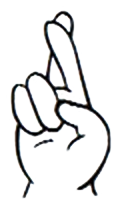
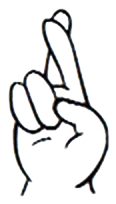
Icone de recomecar, CONTINUAR/RECOMECAR lado a lado no PC, sinais sem borda
- RECOMECAR usa o icone de restart (imagem anexada), no lugar da seta.
- No PC (paisagem) CONTINUAR e RECOMECAR ficam lado a lado e o layout persiste
  (reaplicado no fim de AplicarOrientacao via jogoPausado).
- Titulo/subtitulo do menu separados e logo menor no topo (sem sobreposicao).
- Retrato: botoes menores para caber com dica/creditos sem sobrepor.
- Sinais re-fatiados com inset maior (sem a linha preta da borda).
- Estudo: letra levantada para nao cobrir "sinal parado".

Changed region(s): [[0.0517, 0.1765, 0.7241, 0.9706], [0.3362, 0.0294, 0.9569, 0.9706], [0.5948, 0.4706, 0.6466, 0.5294]]

diff --git a/Assets/MenuPrincipal.cs b/Assets/MenuPrincipal.cs
@@ -53,6 +53,7 @@ public class MenuPrincipal : MonoBehaviour
     string senhaDigitada = "";
 
     bool  menuAberto;
+    bool  jogoPausado;
     float timerFimDeJogo;
     float timerContagem;
 
@@ -257,11 +258,11 @@ public class MenuPrincipal : MonoBehaviour
         rtJogar = jogar.GetComponent<RectTransform>();
         AdicionarIcone(jogar.transform, UIFabrica.Seta(), false, 50f); // ▶ play (JOGAR)
         var iconeVoltar = UIFabrica.CriarImagem(jogar.transform, "IconeVoltar", Color.white,
-            Vector2.zero, new Vector2(50, 50), UIFabrica.Seta());
-        iconeVoltar.raycastTarget = false;
+            Vector2.zero, new Vector2(54, 54), Resources.Load<Sprite>("ui/recomecar"));
+        iconeVoltar.raycastTarget = false; iconeVoltar.preserveAspect = true;
         var ivr = iconeVoltar.rectTransform;
-        ivr.anchorMin = ivr.anchorMax = new Vector2(0f, 0.5f); ivr.pivot = new Vector2(0.5f, 0.5f);
-        ivr.anchoredPosition = new Vector2(55f, 0f); ivr.localScale = new Vector3(-1f, 1f, 1f); // seta invertida = voltar
+        ivr.anchorMin = ivr.anchorMax = new Vector2(0f, 0.5f); ivr.pivot = new Vector2(0f, 0.5f);
+        ivr.anchoredPosition = new Vector2(28f, 0f);
         iconeVoltar.gameObject.SetActive(false);
 
         // Acoes secundarias: lado a lado, tamanho intermediario
@@ -397,16 +398,16 @@ public class MenuPrincipal : MonoBehaviour
         if (pausado)
         {
             // Paisagem: lado a lado. Retrato: empilhado (coluna), largura cheia.
-            if (rtContinuar != null) { rtContinuar.anchoredPosition = h ? new Vector2(-330, 110) : new Vector2(0, 175);
-                                       rtContinuar.sizeDelta = h ? new Vector2(610, 130) : new Vector2(820, 150); }
-            if (rtJogar != null)     { rtJogar.anchoredPosition = h ? new Vector2(330, 110) : new Vector2(0, 5);
-                                       rtJogar.sizeDelta = h ? new Vector2(610, 130) : new Vector2(820, 160); }
+            if (rtContinuar != null) { rtContinuar.anchoredPosition = h ? new Vector2(-330, 110) : new Vector2(0, 200);
+                                       rtContinuar.sizeDelta = h ? new Vector2(610, 130) : new Vector2(820, 120); }
+            if (rtJogar != null)     { rtJogar.anchoredPosition = h ? new Vector2(330, 110) : new Vector2(0, 55);
+                                       rtJogar.sizeDelta = h ? new Vector2(610, 130) : new Vector2(820, 130); }
             FlipIconeJogar(true);
         }
         else
         {
-            if (rtJogar != null) { rtJogar.anchoredPosition = h ? new Vector2(0, 110) : new Vector2(0, 5);
-                                   rtJogar.sizeDelta = h ? new Vector2(540, 140) : new Vector2(820, 160); }
+            if (rtJogar != null) { rtJogar.anchoredPosition = h ? new Vector2(0, 110) : new Vector2(0, 55);
+                                   rtJogar.sizeDelta = h ? new Vector2(540, 140) : new Vector2(820, 130); }
             FlipIconeJogar(false);
         }
     }
@@ -440,8 +441,8 @@ public class MenuPrincipal : MonoBehaviour
     {
         if (logoUniverso == null) return;
         var rt = (RectTransform)logoUniverso.transform;
-        rt.sizeDelta        = estudo ? new Vector2(86, 74)  : new Vector2(150, 129);
-        rt.anchoredPosition = estudo ? new Vector2(0, -4)   : new Vector2(0, -16);
+        rt.sizeDelta        = estudo ? new Vector2(86, 74)  : new Vector2(100, 86);
+        rt.anchoredPosition = estudo ? new Vector2(0, -4)   : new Vector2(0, -8);
     }
 
     void ConstruirHud()
@@ -776,23 +777,23 @@ public class MenuPrincipal : MonoBehaviour
                                                         : new Vector2(1000, 150);
         if (rtTitulo2  != null) rtTitulo2.gameObject.SetActive(!h);
 
-        Pos(rtTitulo1,   new Vector2(0, 585), new Vector2(0, 330));
-        Pos(rtSubtitulo, new Vector2(0, 345), new Vector2(0, 300));
+        Pos(rtTitulo1,   new Vector2(0, 585), new Vector2(0, 385));
+        Pos(rtSubtitulo, new Vector2(0, 345), new Vector2(0, 250));
         Pos(rtRecorde,   new Vector2(0, 295), new Vector2(0, 268));
 
         // Hierarquia piramidal: JOGAR (primaria) maior no topo; APRENDA e
         // TREINAMENTO (secundarias) no meio, tamanho intermediario - em coluna
         // no retrato, lado a lado na paisagem; SAIR (negativa) menor na base,
         // para reduzir toque acidental. Primeiro par = retrato, segundo = paisagem.
-        PosTam(rtContinuar, new Vector2(0,  175), new Vector2(820, 150),
+        PosTam(rtContinuar, new Vector2(0,  200), new Vector2(820, 120),
                             new Vector2(0,  235), new Vector2(500,  90));
-        PosTam(rtJogar,     new Vector2(0,    5), new Vector2(820, 160),
+        PosTam(rtJogar,     new Vector2(0,   55), new Vector2(820, 130),
                             new Vector2(0,  110), new Vector2(540, 140));
-        PosTam(rtAprender,  new Vector2(0, -165), new Vector2(820, 150),
+        PosTam(rtAprender,  new Vector2(0,  -90), new Vector2(820, 120),
                             new Vector2(-330, -45), new Vector2(610, 120));
-        PosTam(rtTreinar,   new Vector2(0, -335), new Vector2(820, 150),
+        PosTam(rtTreinar,   new Vector2(0, -235), new Vector2(820, 120),
                             new Vector2( 330, -45), new Vector2(610, 120));
-        PosTam(rtSair,      new Vector2(0, -505), new Vector2(820, 150),
+        PosTam(rtSair,      new Vector2(0, -380), new Vector2(820, 120),
                             new Vector2(0, -190), new Vector2(380,  90));
         // Bloco do rodape: a linha de autoria colada na base e a dica logo
         // acima dela. Presos a base para continuarem visiveis em qualquer
@@ -868,6 +869,7 @@ public class MenuPrincipal : MonoBehaviour
 
         larguraDoSlot = h ? 300f : 260f;
         PosicionarObjeto3D();
+        PosicionarBotoesContinuar(jogoPausado); // mantem CONTINUAR/RECOMECAR no lugar
     }
 
     // O objeto 3D vive no mundo e o cartão vive na interface. Se a posição do
@@ -989,6 +991,7 @@ public class MenuPrincipal : MonoBehaviour
         // Fora isso (fim de jogo, treinamento, início), para de verdade.
         bool podeContinuar = gerenciador != null &&
                              gerenciador.JogoIniciado && !gerenciador.JogoTerminado;
+        jogoPausado = podeContinuar;
         if (podeContinuar) gerenciador.Pausar();
         else               gerenciador.PararJogo();
         if (botaoContinuar != null) botaoContinuar.SetActive(podeContinuar);

diff --git a/Assets/ModoEstudo.cs b/Assets/ModoEstudo.cs
@@ -263,7 +263,7 @@ public class ModoEstudo : MonoBehaviour
             // Deitado: texto a esquerda, mao a direita
             rtTitulo.anchoredPosition    = new Vector2(0, -120);
             UIFabrica.Ancorar(letraGrande, new Vector2(0.5f, 0.5f), new Vector2(0.5f, 0.5f));
-            rtLetra.anchoredPosition     = new Vector2(-470, 55);
+            rtLetra.anchoredPosition     = new Vector2(-470, 130);
             UIFabrica.Ancorar(subtitulo, new Vector2(0.5f, 0.5f), new Vector2(0.5f, 0.5f));
             rtSubtitulo.anchoredPosition = new Vector2(-470, -90);
             rtArea.anchoredPosition      = new Vector2(430, -25);
@@ -277,7 +277,7 @@ public class ModoEstudo : MonoBehaviour
             // Em pe: tudo empilhado, com espaco entre os blocos
             rtTitulo.anchoredPosition    = new Vector2(0, -128);
             UIFabrica.Ancorar(letraGrande, new Vector2(0.5f, 1f), new Vector2(0.5f, 1f));
-            rtLetra.anchoredPosition     = new Vector2(0, -215);
+            rtLetra.anchoredPosition     = new Vector2(0, -140);
             UIFabrica.Ancorar(subtitulo, new Vector2(0.5f, 1f), new Vector2(0.5f, 1f));
             rtSubtitulo.anchoredPosition = new Vector2(0, -365);
             rtArea.anchoredPosition      = new Vector2(0, -40);
